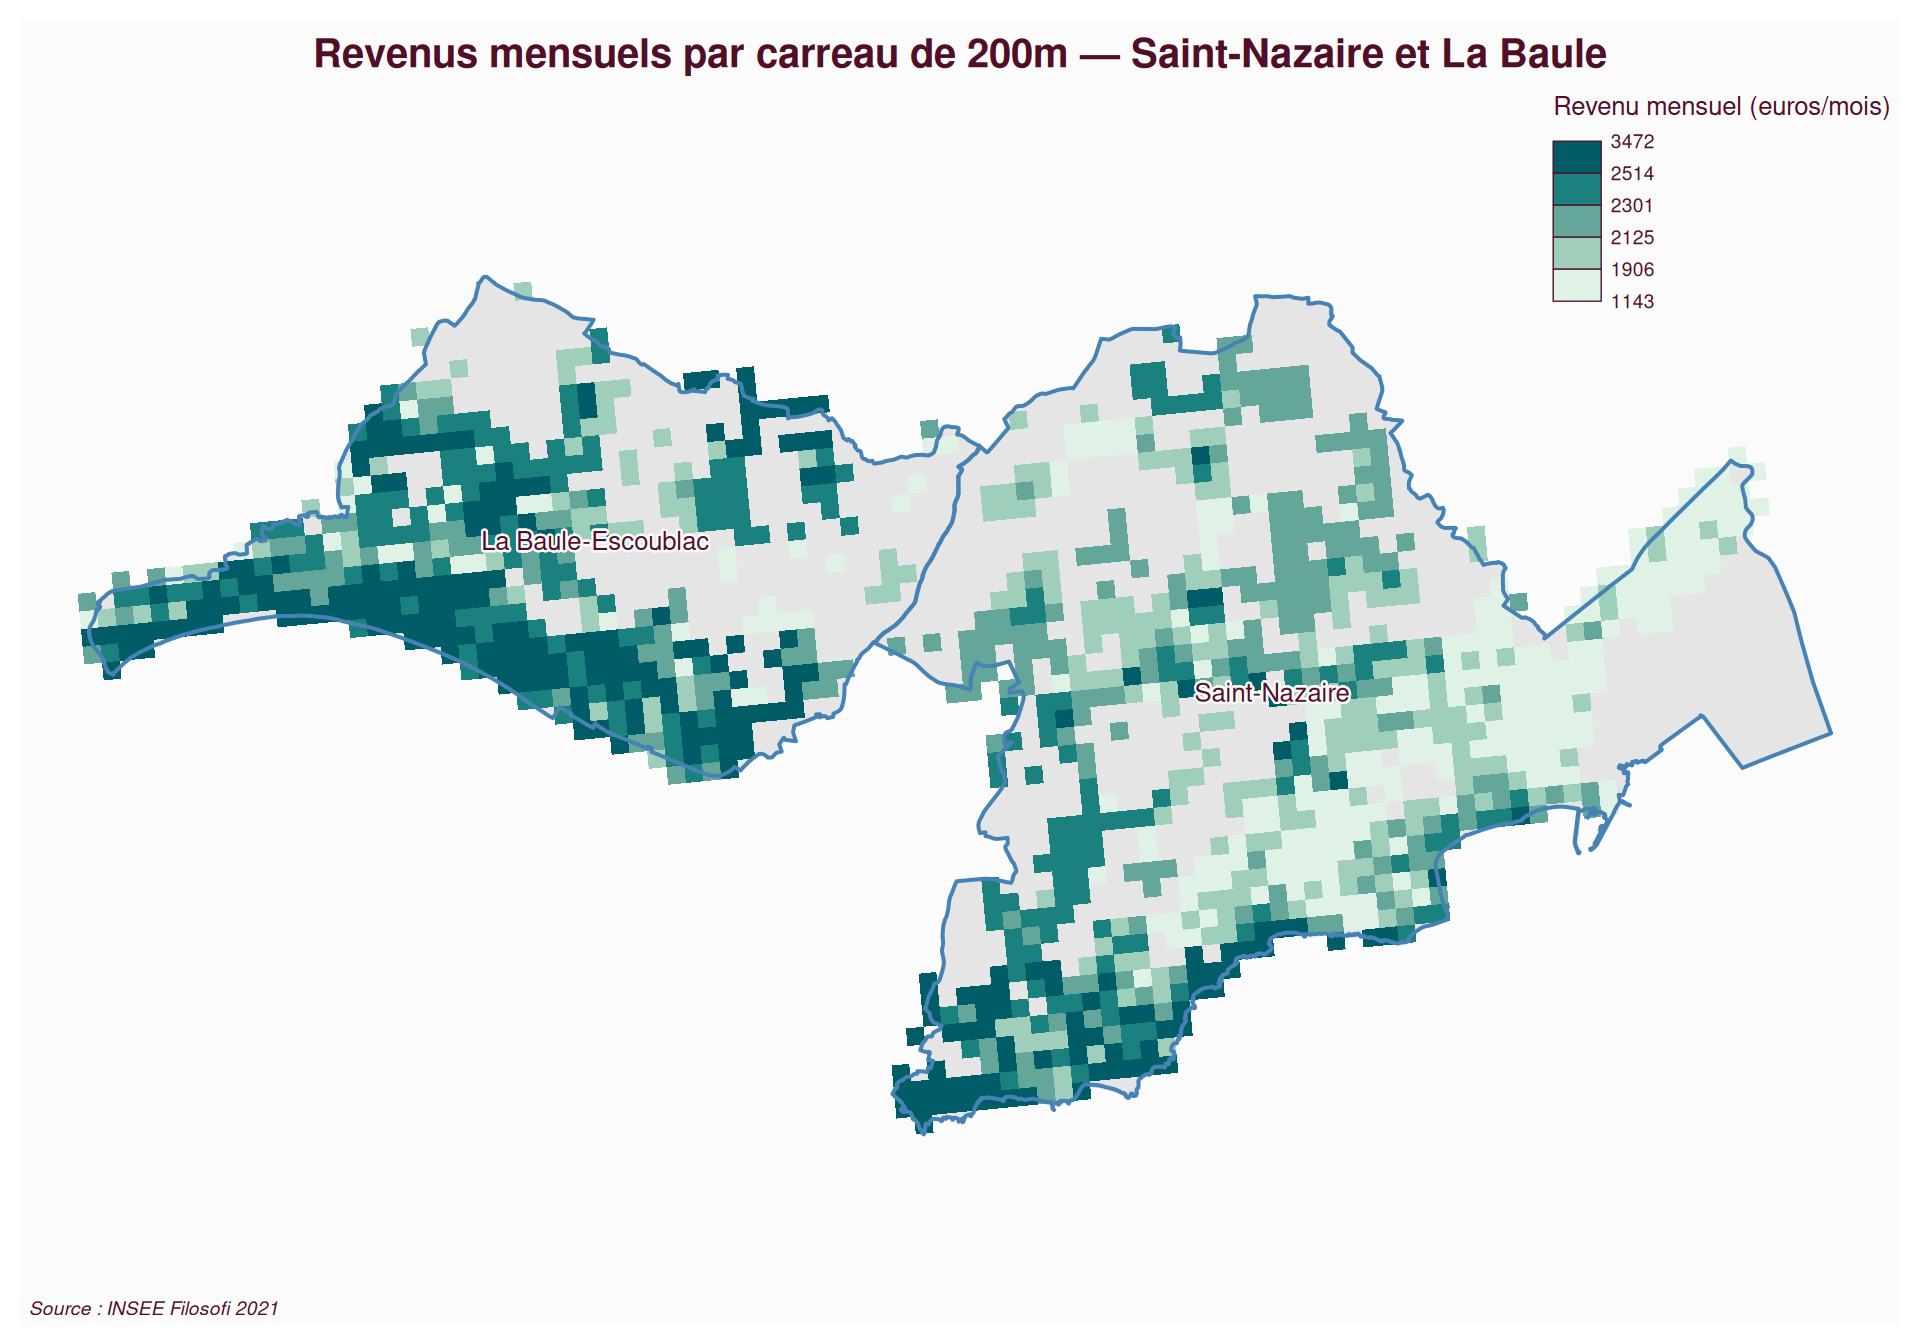
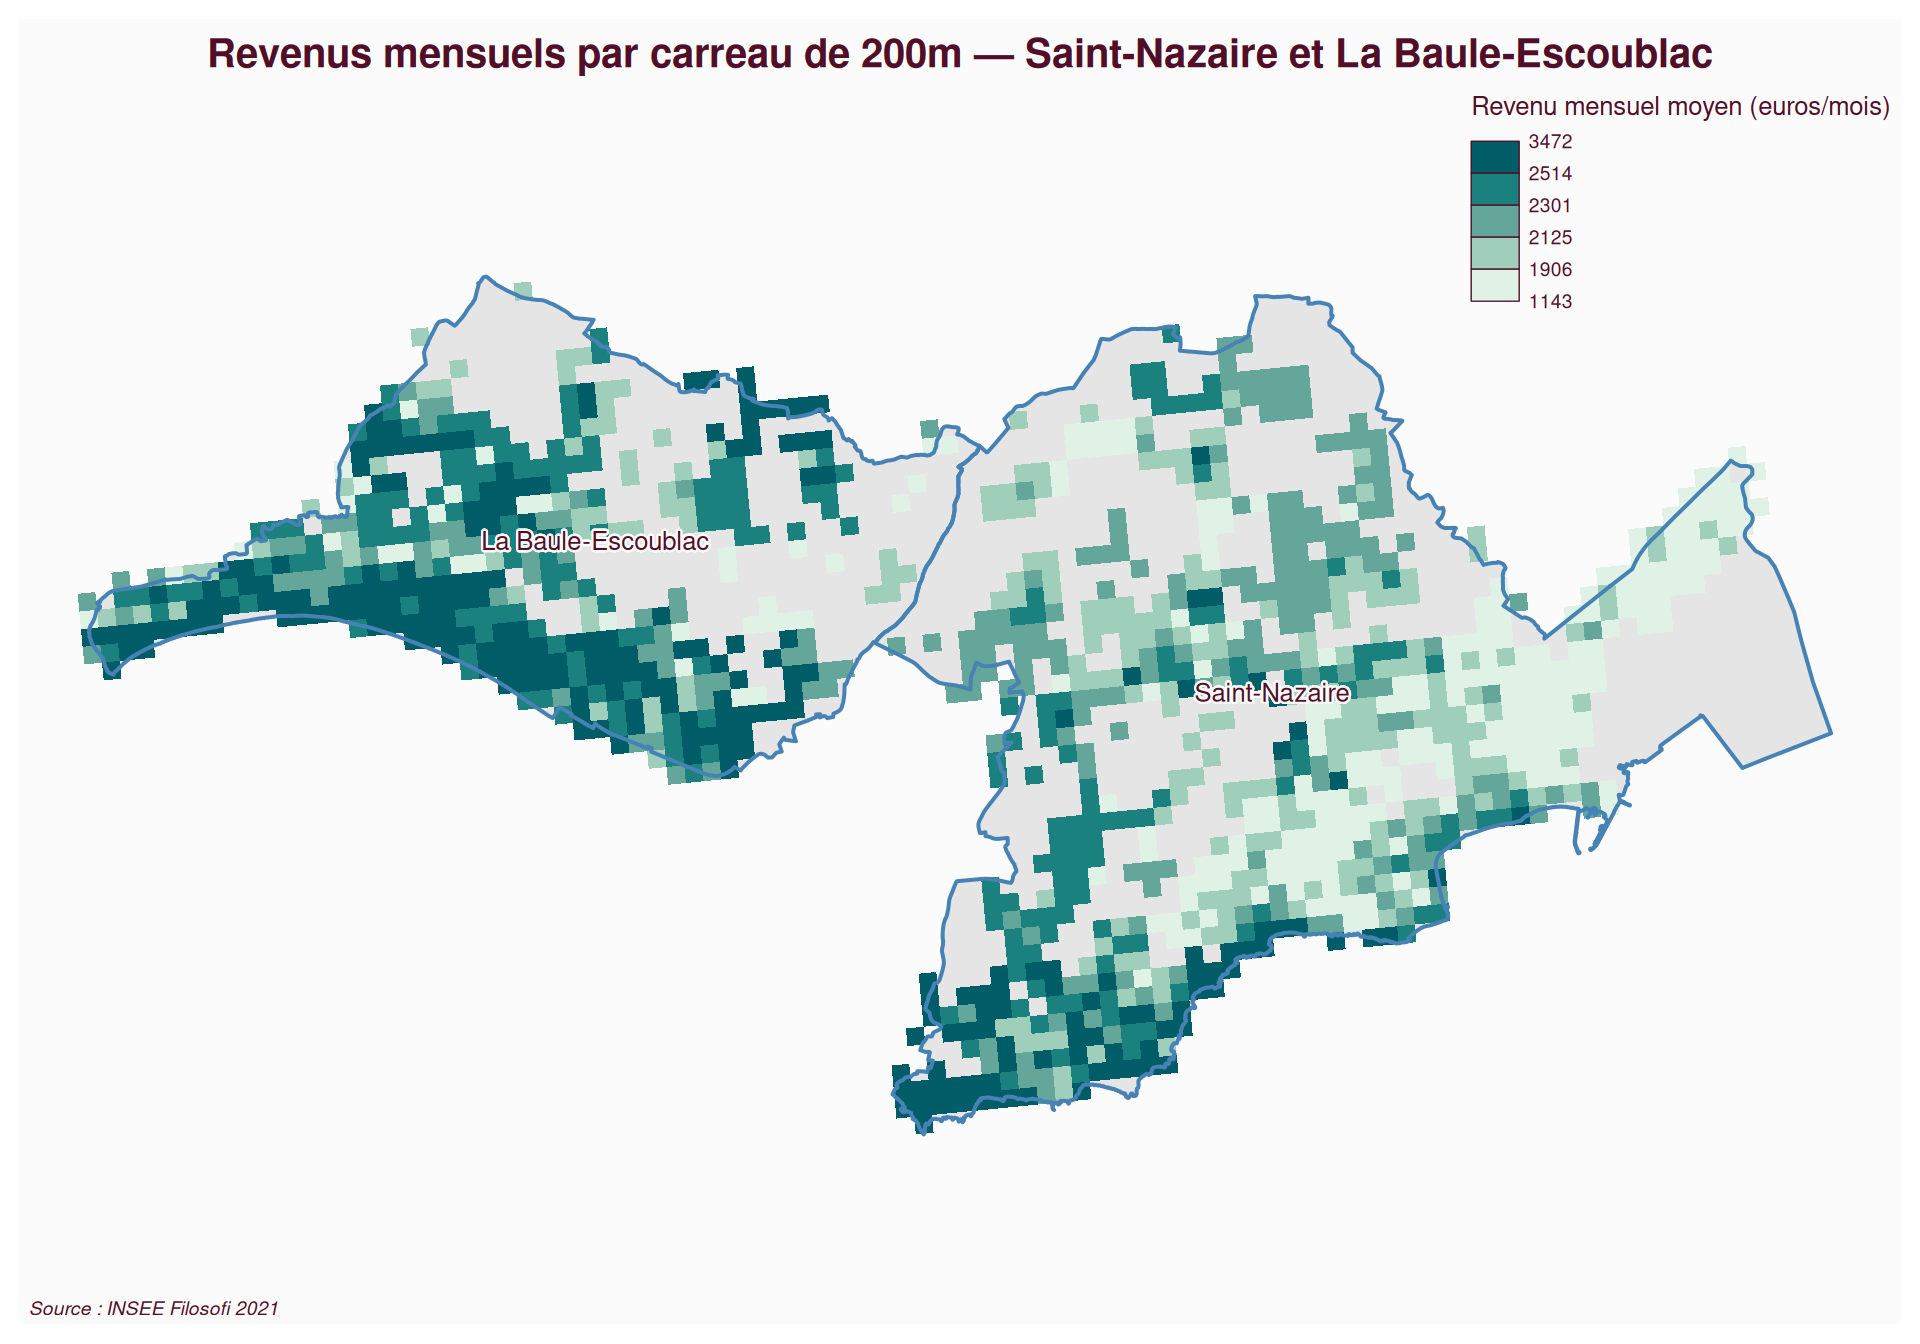
ajout conclusion vecteur

Changed region(s): [[0.0938, 0.0312, 0.9062, 0.25]]

diff --git a/docs/gt_vecteurs.html b/docs/gt_vecteurs.html
@@ -374,17 +374,32 @@ window.addEventListener("load", function() {
 </div>
 <div id="calcul-du-revenu-moyen-par-carreau" class="section level3">
 <h3>Calcul du revenu moyen par carreau</h3>
-<p>La variable <code>ind_snv</code> contient la somme des niveaux de vie
-de tous les individus du carreau. On la divise par <code>ind</code>
-(nombre d’individus) pour obtenir le revenu moyen par carreau.</p>
-<p>Les revenus varient entre <strong>13 716 €/an</strong> (carreaux les
-plus pauvres) et <strong>41 658 €/an</strong> (carreaux les plus aisés),
-avec une médiane à <strong>26 421 €/an</strong> sur l’ensemble des deux
-communes.</p>
+<p>Nous avons tout d’abord isolé les carreaux de nos communes. Une fois
+cela fait, nous avions la somme des revenus par carreau ainsi que le
+nombre de personne vivant dans le carreau. En divisant la première
+donnée par la seconde, nous avons obtenu le revenu mensuel moyen de
+chaque carreau. Nous avons ensuite fais une discrétisation en 5
+quantiles. Ainsi nous pouvons reconnaitre visuellement les zones où les
+revenus sont les plus importants. Et les zones où les revenues sont les
+plus faibles. Attention, nombreux carreau ne contiennent pas de donnée
+et sont donc grisé car n’ayant pas assez d’habitant pour assurer le
+secret statistique.</p>
 </div>
 <div id="carte-des-revenus" class="section level3">
 <h3>Carte des revenus</h3>
 <p><img src="gt_vecteurs_files/figure-html/unnamed-chunk-3-1.png" alt="" width="960" /></p>
+</div>
+<div id="conclusion" class="section level3">
+<h3>Conclusion</h3>
+<p>On observe une différence importante entre les deux villes.</p>
+<p>La Baule-Escoublac a une très large dominante de carreau à revenu
+moyen de <strong>3 472€/mois</strong>, le quantile le plus important.
+Tandis que c’est à Saint-Nazaire que se trouve l’essentiel des quantiles
+au revenus les plus faibles, notamment ceux au revenu moyen de <strong>1
+143€/mois</strong></p>
+<p>On peut donc en conclure que les deux villes ont des inégalités de
+revenu importante, ce qui en fait une comparaison pertinente pour
+répondre à notre problématique.</p>
 </div>
 </div>
 
